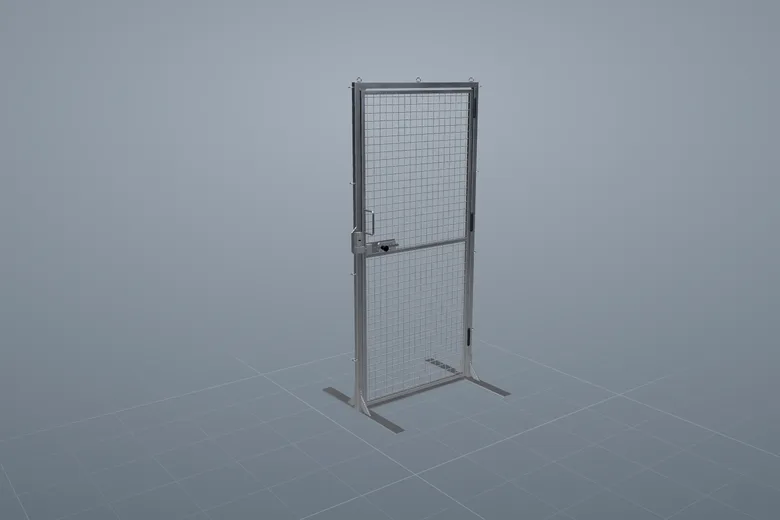
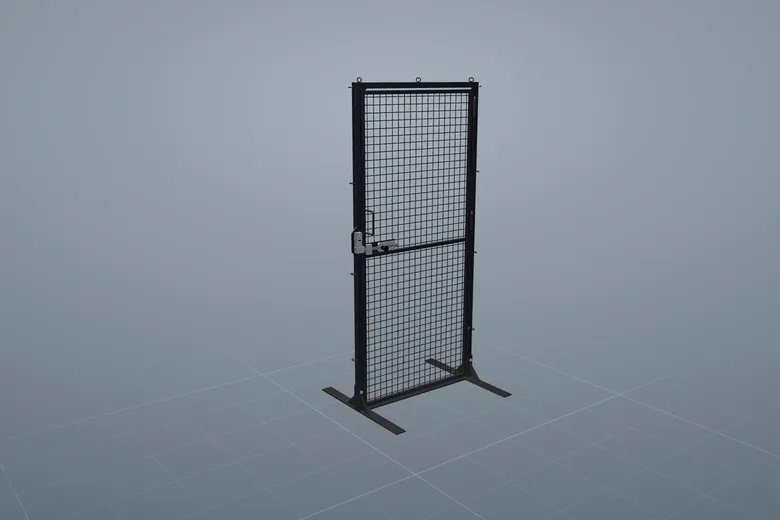
Porte assemblée 1801020 : peinte en noir (cadre, battant, grillage, trépied, butées, pentures), visserie zinguée et barrure à leur fini ; fichiers Unreal, vignette et textes mis à jour
Claude-Session: https://claude.ai/code/session_015N4WstYXVDaVdThzy8zzi3

Changed region(s): [[0.4, 0.1538, 0.6154, 0.8308], [0.6154, 0.7385, 0.6462, 0.7692]]

diff --git a/docs/porte-unreal.md b/docs/porte-unreal.md
@@ -97,8 +97,11 @@ Les `.fbx` contiennent les mêmes maillages pour les versions d'Unreal ou les lo
 
 ## Limites
 
-- Les plans ne précisent pas de couleur : acier nu, grillage et visserie zingués. Un métal pur sort noir dans une
-  scène sans ciel ni captures de reflets (galerie de mine) : régler le matériau dans Unreal, ou réexporter avec
+- Les plans ne précisent pas de couleur : la porte est peinte en noir (cadre, battant, grillage, trépied, butées,
+  pentures : `M_Porte_Cadre`, `M_Porte_Battant`, `M_Porte_Grillage`, `M_Porte_Trepied`, `M_Porte_Pentures`, peinture
+  non métallique), la visserie est zinguée et la barrure garde son fini. Chaque section reste un matériau à part, à
+  recolorer dans Unreal. Les métaux nus (visserie, barrure) sortent noirs dans une scène sans ciel ni captures de
+  reflets (galerie de mine) : régler ces matériaux dans Unreal, ou réexporter avec
   `node scripts/export-porte.mjs --metal-max 0.3`.
 - La barrure est simplifiée d'après ses contours sur le plan (le dessin porte le marquage
   « www.fortressinterlocks.com ») ; son mécanisme intérieur et son câblage ne sont pas modélisés.

diff --git a/README.md b/README.md
@@ -134,7 +134,8 @@ pièces (numéro, quantité, page du manuel).
   (15250400), trois pentures à souder de 6 po, deux plaques de butée, barrure à
   tête d'interverrouillage (2210300), trépied à douilles boulonnées (P02). Les
   cotes des plans sont reprises telles quelles ; le reste est relevé à l'échelle
-  sur les tracés vectoriels des PDF. Les masses des cartouches (19,74 lb et
+  sur les tracés vectoriels des PDF. Peinte en noir (couleur choisie pour le
+  modèle, les plans n'en précisent pas), visserie zinguée. Les masses des cartouches (19,74 lb et
   5,42 lb) sont calculées à la densité par défaut de SolidWorks (1 g/cm³) : elles
   donnent le volume de matière, que `node scripts/check-porte.mjs` compare à
   celui du modèle parmi 51 contrôles (trépied à 0,1 %, porte à 2 % ; environ
